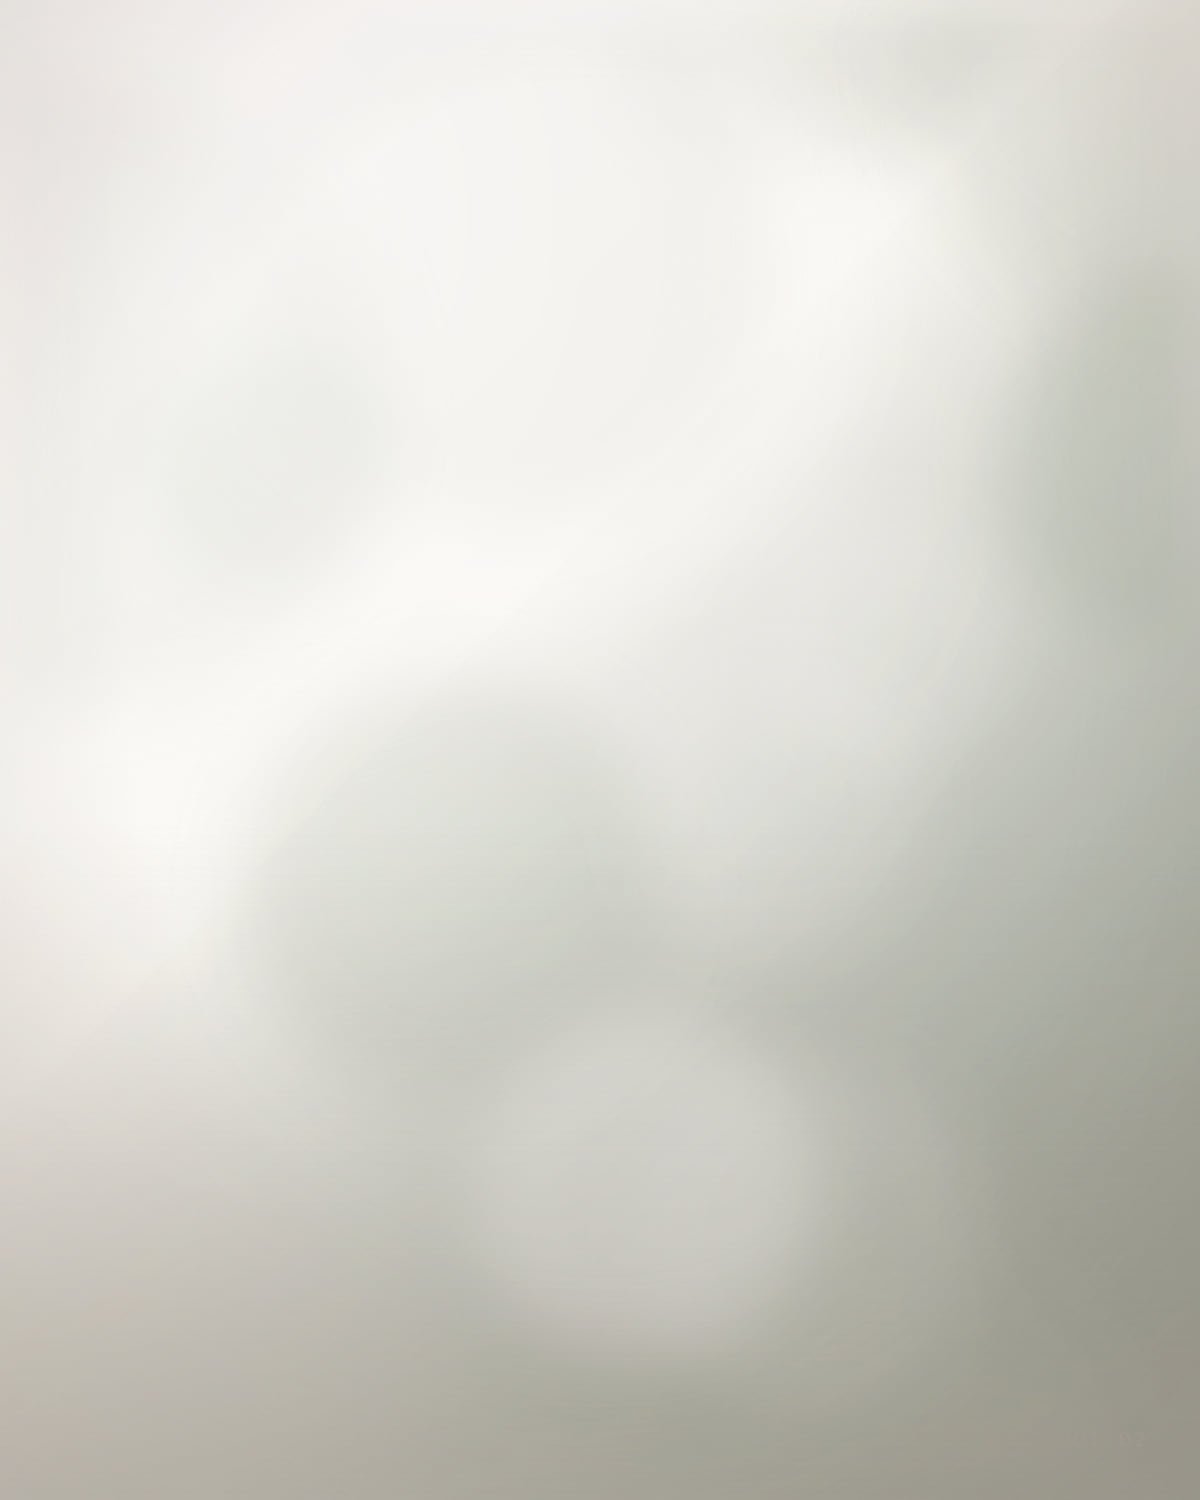
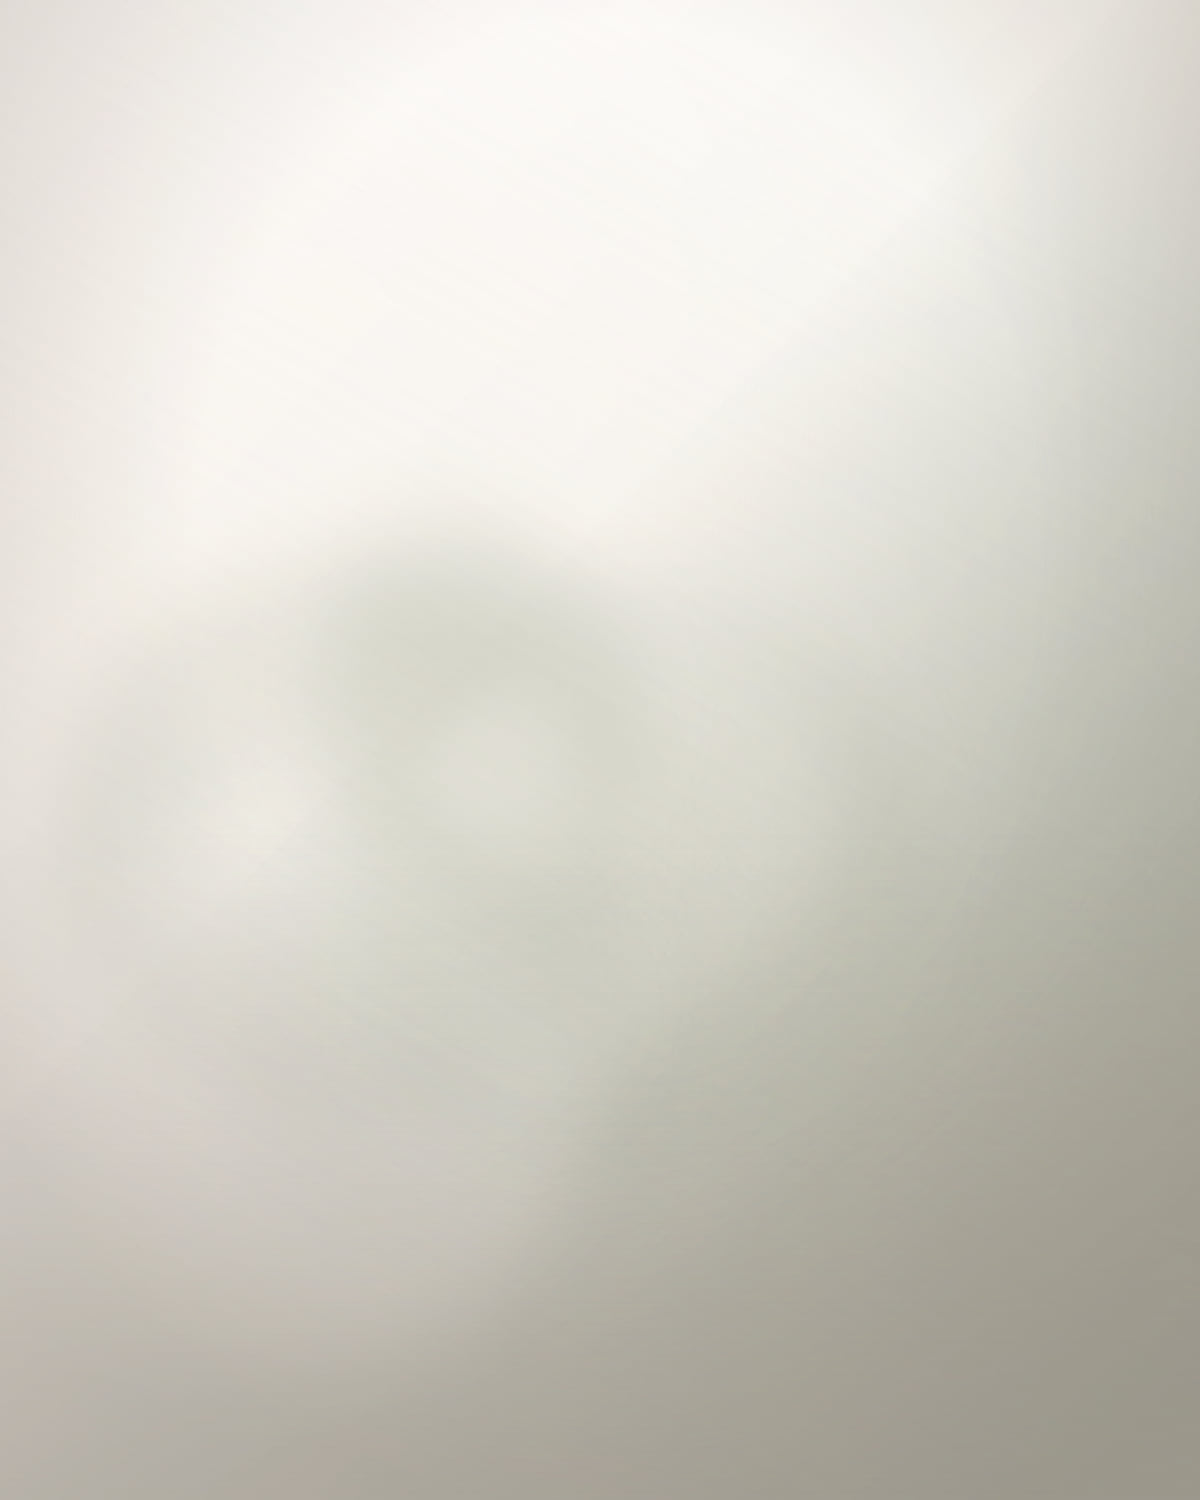
Sync 01/02 numeral style with body text and add real couple photos
- Match OurStory's step-number typography to the adjacent body text
  (wd-body-serif: weight 300, no extra letter-spacing) instead of a
  separately-styled accent-colored numeral
- Vary the placeholder-image generator's bokeh clustering, add a subtle
  light-leak, jitter the sun/vignette position per image, and soften the
  corner debug label, so unused placeholder slots look less repetitive
- Wire in the couple's real photos (anh-01..06) across Hero, Our Story,
  Closing, and the full Gallery, replacing the abstract placeholders

Changed region(s): [[0.0308, 0.368, 0.5242, 0.6133], [0.4933, 0.7053, 0.6783, 0.8893]]

diff --git a/lib/wedding.ts b/lib/wedding.ts
@@ -94,8 +94,8 @@ export const wedding = {
     {
       text: "Một ngày bình thường,\nchúng mình gặp nhau.",
       image: {
-        src: "/images/wedding/story-01.jpg",
-        alt: "Tuấn và Hoa trong lần chụp ảnh cưới đầu tiên",
+        src: "/images/wedding/anh-05.jpg",
+        alt: "Tuấn và Hoa cùng chú cún nhỏ bên vách biển",
         width: 1200,
         height: 1500,
       },
@@ -103,8 +103,8 @@ export const wedding = {
     {
       text: "Rồi từ những điều rất nhỏ,\nchúng mình quyết định\nđi cùng nhau thật lâu.",
       image: {
-        src: "/images/wedding/story-02.jpg",
-        alt: "Tuấn bế Hoa trong sân vườn",
+        src: "/images/wedding/anh-06.jpg",
+        alt: "Tuấn và Hoa nắm tay bước đi trên thảm cỏ xanh",
         width: 1200,
         height: 1500,
       },
@@ -113,8 +113,8 @@ export const wedding = {
       text: "Và rồi,\nchúng mình",
       emphasis: "ở đây...",
       image: {
-        src: "/images/wedding/story-03.jpg",
-        alt: "Tuấn và Hoa nắm tay nhau bước đi",
+        src: "/images/wedding/anh-02.jpg",
+        alt: "Tuấn và Hoa trao nhau nụ hôn dưới giàn hoa",
         width: 1200,
         height: 1500,
       },
@@ -130,14 +130,14 @@ export const wedding = {
 
   images: {
     hero: {
-      src: "/images/wedding/hero.jpg",
-      alt: "Văn Tuấn và Mai Hoa trong bộ ảnh cưới",
+      src: "/images/wedding/anh-01.jpg",
+      alt: "Tuấn và Hoa tung hoa cưới trên bãi biển",
       width: 1500,
       height: 1900,
     },
     closing: {
-      src: "/images/wedding/closing.jpg",
-      alt: "Tuấn và Hoa trong ánh chiều",
+      src: "/images/wedding/anh-03.jpg",
+      alt: "Tuấn và Hoa sánh bước trong vườn",
       width: 1800,
       height: 1200,
     },
@@ -145,38 +145,38 @@ export const wedding = {
 
   gallery: [
     {
-      src: "/images/wedding/gallery-01.jpg",
-      alt: "Khoảnh khắc đầu tiên của buổi chụp",
+      src: "/images/wedding/anh-01.jpg",
+      alt: "Tuấn và Hoa tung hoa cưới bên bờ biển",
       width: 1200,
       height: 1500,
     },
     {
-      src: "/images/wedding/gallery-02.jpg",
-      alt: "Bó hoa cưới trên nền vải lụa",
+      src: "/images/wedding/anh-02.jpg",
+      alt: "Nụ hôn của Tuấn và Hoa dưới giàn hoa",
       width: 1200,
       height: 1500,
     },
     {
-      src: "/images/wedding/gallery-03.jpg",
-      alt: "Nụ cười của cô dâu",
+      src: "/images/wedding/anh-04.jpg",
+      alt: "Tuấn và Hoa tạo dáng trái tim",
       width: 1200,
       height: 1500,
     },
     {
-      src: "/images/wedding/gallery-04.jpg",
-      alt: "Chân dung hai người bên khung cửa",
+      src: "/images/wedding/anh-03.jpg",
+      alt: "Tuấn và Hoa sánh bước trong vườn",
       width: 1200,
       height: 1500,
     },
     {
-      src: "/images/wedding/gallery-05.jpg",
-      alt: "Cùng nhau đi trên con đường nhỏ",
+      src: "/images/wedding/anh-05.jpg",
+      alt: "Tuấn, Hoa và chú cún nhỏ bên vách biển",
       width: 1200,
       height: 1500,
     },
     {
-      src: "/images/wedding/gallery-06.jpg",
-      alt: "Ảnh cưới toàn cảnh",
+      src: "/images/wedding/anh-06.jpg",
+      alt: "Tuấn và Hoa trên thảm cỏ xanh",
       width: 1200,
       height: 1500,
     },

diff --git a/components/wedding/OurStory.tsx b/components/wedding/OurStory.tsx
@@ -59,7 +59,10 @@ export function OurStory() {
                           : "md:order-1 md:justify-self-end",
                       )}
                     >
-                      <span className="font-display block text-[clamp(1.5rem,6.5vw,2.25rem)] leading-none tracking-[0.14em] text-champagne">
+                      {/* Dùng đúng wd-body-serif (font-weight 300, không kéo
+                          letter-spacing) như đoạn text bên cạnh — chỉ phóng
+                          cỡ chữ lớn hơn để vẫn đọc ra là số thứ tự. */}
+                      <span className="wd-body-serif block text-[clamp(1.5rem,6.5vw,2.25rem)] leading-none">
                         {String(index + 1).padStart(2, "0")}
                       </span>
 
